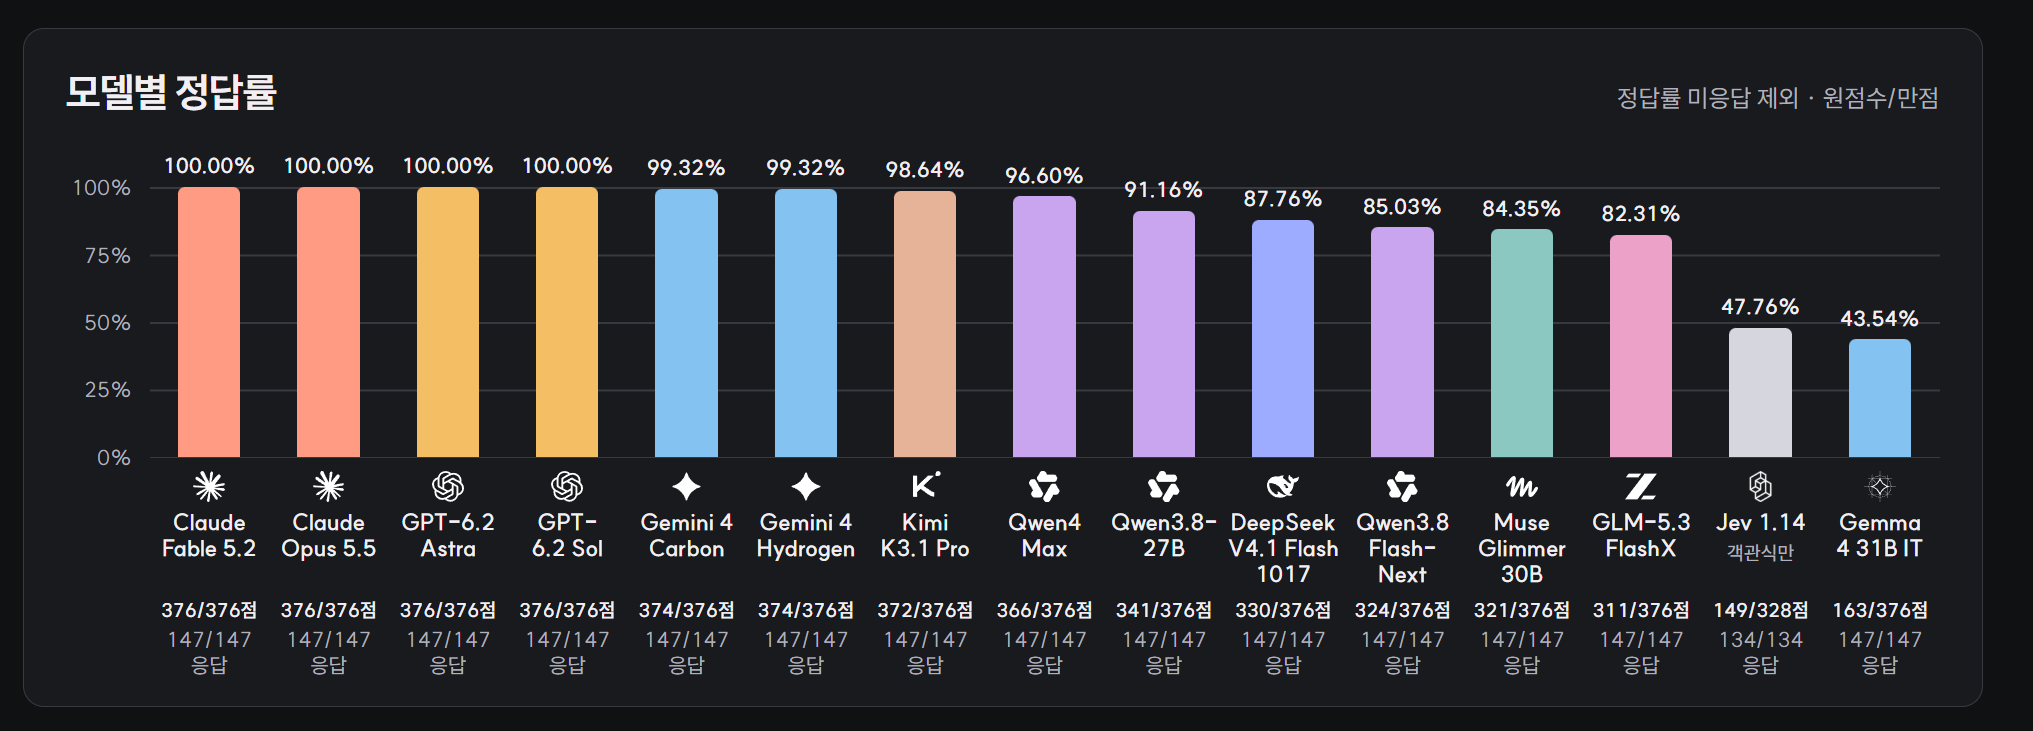
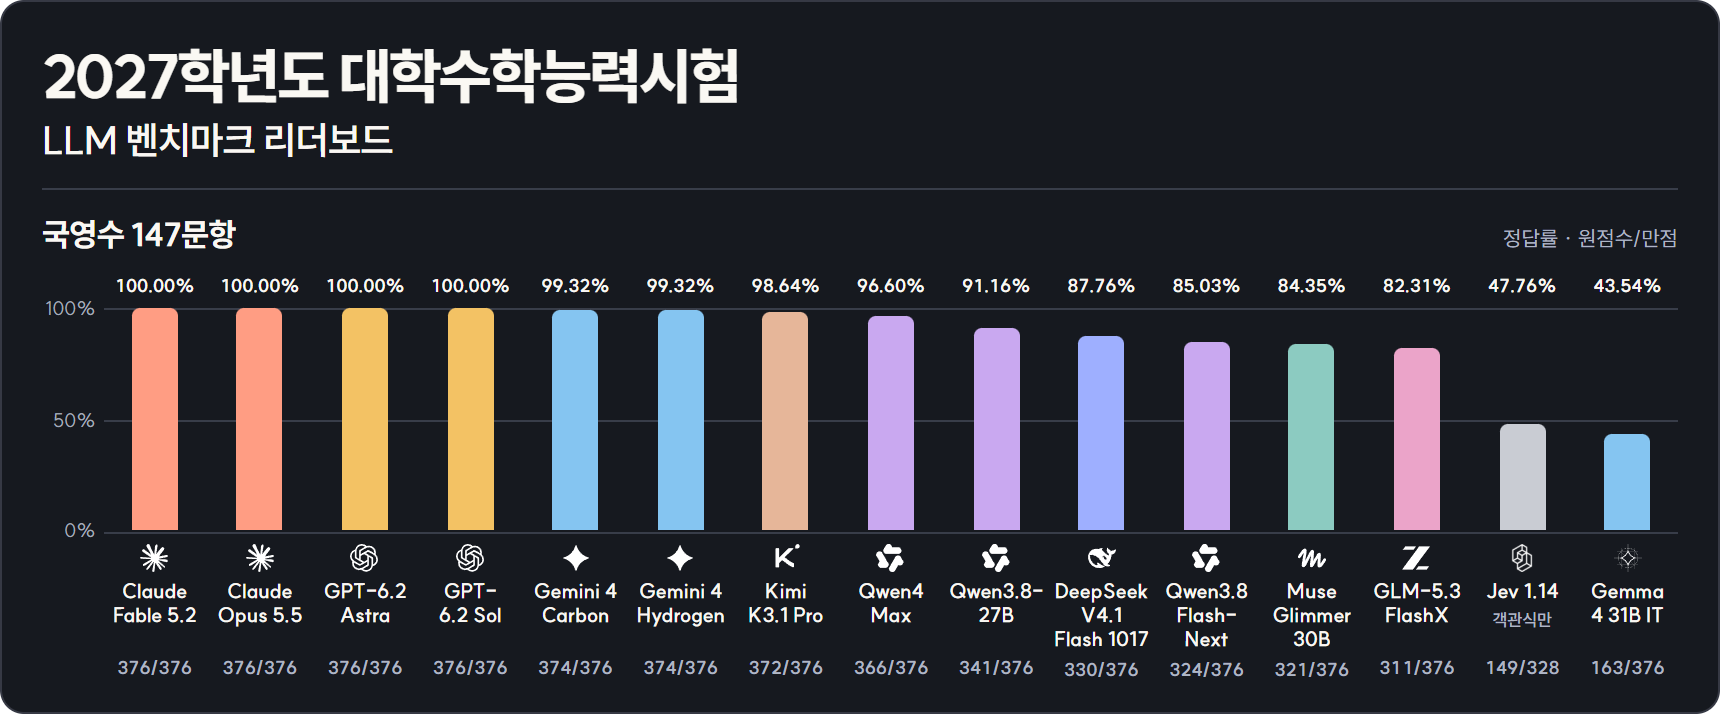
Publish the 2027 CSAT leaderboard README

diff --git a/README.md b/README.md
@@ -1,16 +1,60 @@
-[![2027학년도 수능 국영수 성적표, 15개 모델의 정답률과 원점수](docs/assets/2027-scorecard.png)](https://gonge1018.github.io/27suneung-bench/?year=2027&scope=core)
+<p align="center">
+  <a href="https://gonge1018.github.io/27suneung-bench/?year=2027&amp;scope=core">
+    <picture>
+      <source media="(max-width: 600px) and (prefers-color-scheme: dark)" srcset="docs/assets/2027-scorecard-mobile-dark.png">
+      <source media="(max-width: 600px)" srcset="docs/assets/2027-scorecard-mobile-light.png">
+      <source media="(prefers-color-scheme: dark)" srcset="docs/assets/2027-scorecard.png">
+      <img src="docs/assets/2027-scorecard-light.png" width="860" alt="2027학년도 대학수학능력시험 LLM 벤치마크 리더보드 · 국영수 정답률과 원점수">
+    </picture>
+  </a>
+</p>
+
+<p align="center">
+  <strong><a href="https://gonge1018.github.io/27suneung-bench/?year=2027&amp;scope=all">전체 리더보드</a></strong>
+  &nbsp;·&nbsp;
+  <a href="https://gonge1018.github.io/27suneung-bench/?year=2027&amp;scope=core">국영수 성적</a>
+  &nbsp;·&nbsp;
+  <a href="https://github.com/GonGe1018/27suneung-bench/blob/main/web/public/data/2027/csat/benchmark.json">결과 데이터</a>
+</p>
 
 <details open>
-<summary><strong>2027학년도 성적표</strong></summary>
+<summary><strong>2027학년도 전체 영역</strong> · 8개 모델</summary>
 
-| 응시 범위 | 문항 | 응시 예정 모델 · 추론 강도 |
-| --- | ---: | --- |
-| 국영수 | 147 | Gemini 4 Carbon · high<br>Gemini 4 Hydrogen · xhigh |
-| 국영수 + 과학탐구Ⅱ | 227 | Kimi K3.1 Pro · max<br>Qwen4 Max · xhigh<br>DeepSeek V4.1 Flash 1017 · max<br>GLM-5.3 FlashX · max<br>Qwen3.8 Flash-Next · xhigh |
-| 전체 영역 | 487 | GPT-6.2 Astra · max<br>GPT-6.2 Sol · max<br>Claude Fable 5.2 · max<br>Claude Opus 5.5 · max<br>Qwen3.8-27B · xhigh<br>Muse Glimmer 30B · xhigh<br>Gemma 4 31B IT · thinking on |
-| 전체 영역 · 수학 객관식 | 474 | Jev 1.14 |
+<p><a href="https://gonge1018.github.io/27suneung-bench/?year=2027&amp;scope=korean">국어</a>&nbsp; · &nbsp;<a href="https://gonge1018.github.io/27suneung-bench/?year=2027&amp;scope=math">수학</a>&nbsp; · &nbsp;<a href="https://gonge1018.github.io/27suneung-bench/?year=2027&amp;scope=english">영어</a>&nbsp; · &nbsp;<a href="https://gonge1018.github.io/27suneung-bench/?year=2027&amp;scope=science2">과탐Ⅱ</a>&nbsp; · &nbsp;<a href="https://gonge1018.github.io/27suneung-bench/?year=2027&amp;scope=science1">과탐Ⅰ</a>&nbsp; · &nbsp;<a href="https://gonge1018.github.io/27suneung-bench/?year=2027&amp;scope=social">사탐</a></p>
 
-[2027학년도 데이터](web/public/data/2027/csat/benchmark.json)
+| 모델 | 총점 | 정답률 | 국어 | 수학 | 영어 | 과탐Ⅱ | 과탐Ⅰ | 사탐 |
+| :--- | ---: | ---: | ---: | ---: | ---: | ---: | ---: | ---: |
+| Claude Fable 5.2 | **1,226/1,226** | 100.00% | 124/124 | 152/152 | 100/100 | 200/200 | 200/200 | 450/450 |
+| GPT-6.2 Astra | 1,223/1,226 | 99.79% | 124/124 | 152/152 | 100/100 | 200/200 | 197/200 | 450/450 |
+| Claude Opus 5.5 | 1,221/1,226 | 99.59% | 124/124 | 152/152 | 100/100 | 200/200 | 195/200 | 450/450 |
+| GPT-6.2 Sol | 1,220/1,226 | 99.59% | 124/124 | 152/152 | 100/100 | 200/200 | 197/200 | 447/450 |
+| Qwen3.8-27B | 901/1,226 | 73.51% | 105/124 | 136/152 | 100/100 | 147/200 | 85/200 | 328/450 |
+| Muse Glimmer 30B | 838/1,226 | 68.17% | 82/124 | 144/152 | 95/100 | 129/200 | 121/200 | 267/450 |
+| Gemma 4 31B IT | 352/1,226 | 28.75% | 21/124 | 78/152 | 64/100 | 46/200 | 36/200 | 107/450 |
+| Jev 1.14<br><sub>객관식만</sub> | 312/1,178 | 27.22% | 50/124 | 28/104 | 71/100 | 37/200 | 26/200 | 100/450 |
+
+</details>
+
+<details>
+<summary><strong>2027학년도 국영수</strong> · 15개 모델</summary>
+
+| 모델 | 정답률 | 원점수 / 만점 | 응답 |
+| :--- | ---: | ---: | ---: |
+| Claude Fable 5.2 | 100.00% | 376/376 | 147 |
+| Claude Opus 5.5 | 100.00% | 376/376 | 147 |
+| GPT-6.2 Astra | 100.00% | 376/376 | 147 |
+| GPT-6.2 Sol | 100.00% | 376/376 | 147 |
+| Gemini 4 Carbon | 99.32% | 374/376 | 147 |
+| Gemini 4 Hydrogen | 99.32% | 374/376 | 147 |
+| Kimi K3.1 Pro | 98.64% | 372/376 | 147 |
+| Qwen4 Max | 96.60% | 366/376 | 147 |
+| Qwen3.8-27B | 91.16% | 341/376 | 147 |
+| DeepSeek V4.1 Flash 1017 | 87.76% | 330/376 | 147 |
+| Qwen3.8 Flash-Next | 85.03% | 324/376 | 147 |
+| Muse Glimmer 30B | 84.35% | 321/376 | 147 |
+| GLM-5.3 FlashX | 82.31% | 311/376 | 147 |
+| Jev 1.14<br><sub>객관식만</sub> | 47.76% | 149/328 | 134 |
+| Gemma 4 31B IT | 43.54% | 163/376 | 147 |
 
 </details>
 
@@ -30,5 +74,19 @@
 정답률은 미응답을 제외합니다. 추정 비용은 재시도를 포함합니다.
 
 [2026학년도 데이터](web/public/data/2026/csat/pilot.json)
+
+</details>
+
+<details>
+<summary><strong>응시 범위와 채점 기준</strong></summary>
+
+| 응시 범위 | 문항 |
+| :--- | ---: |
+| 국영수 | 147 |
+| 국영수와 과학탐구Ⅱ | 227 |
+| 전체 영역 | 487 |
+| 전체 영역, 수학 객관식 | 474 |
+
+정답률은 응답한 문항 기준이고 원점수에는 문항별 배점을 적용합니다. 국어·수학은 선택과목을 모두 포함하고 공통 문항을 한 번씩 셉니다.
 
 </details>
